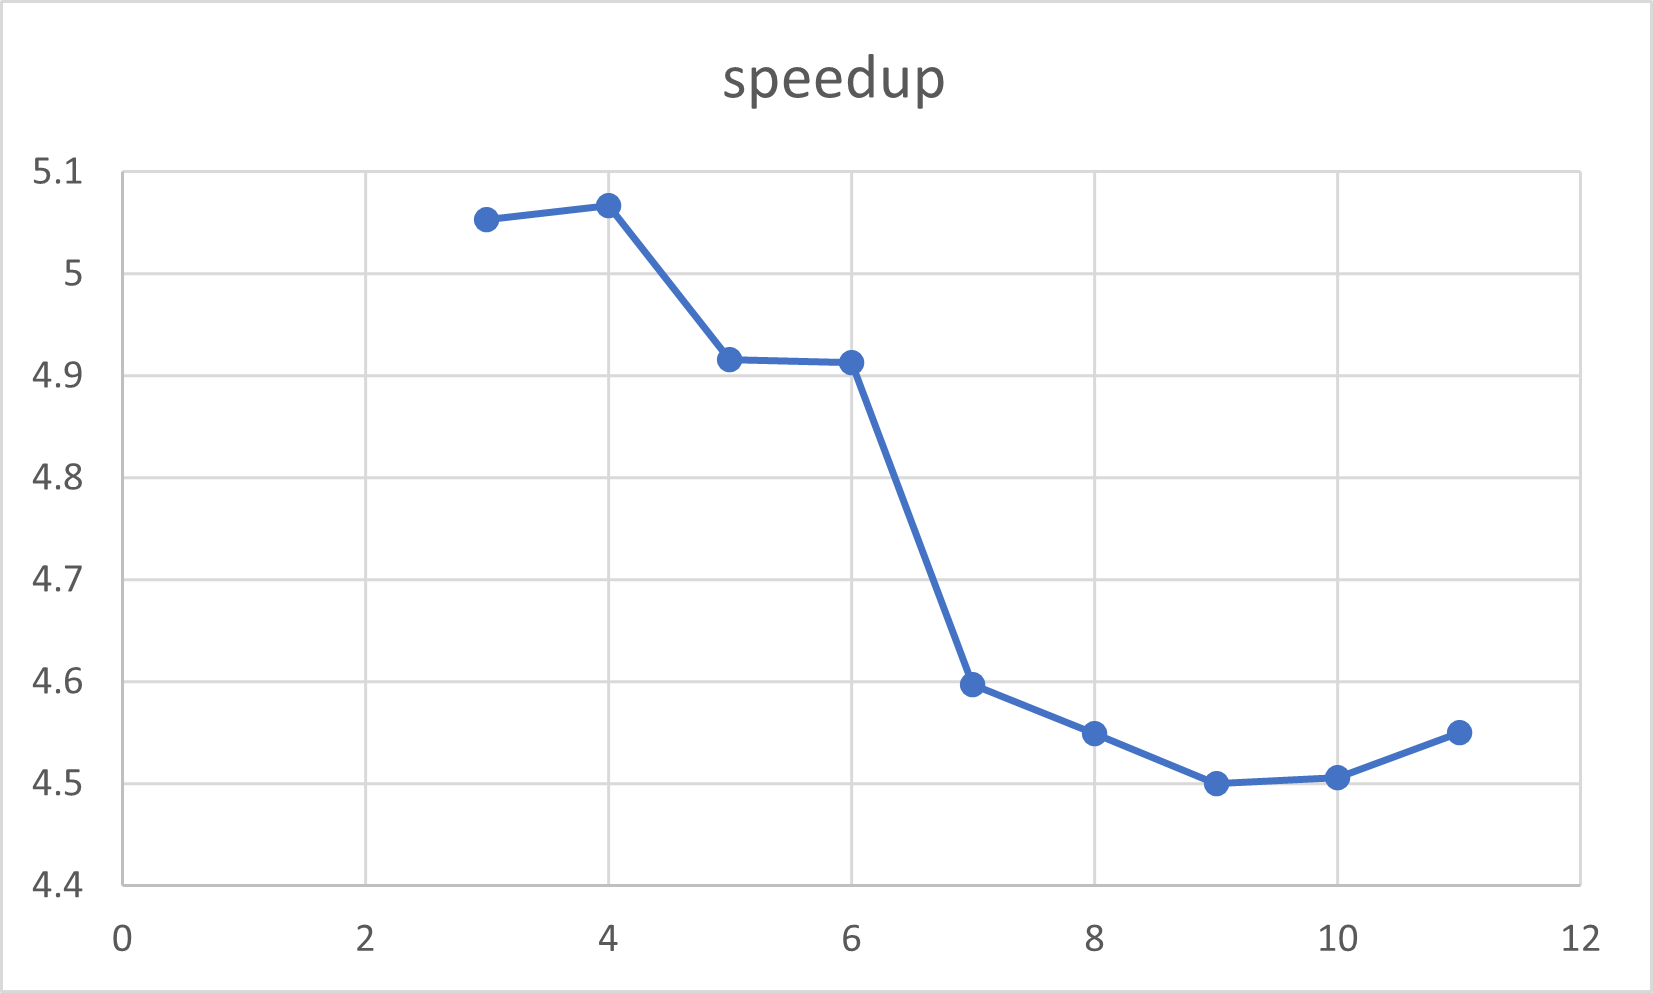
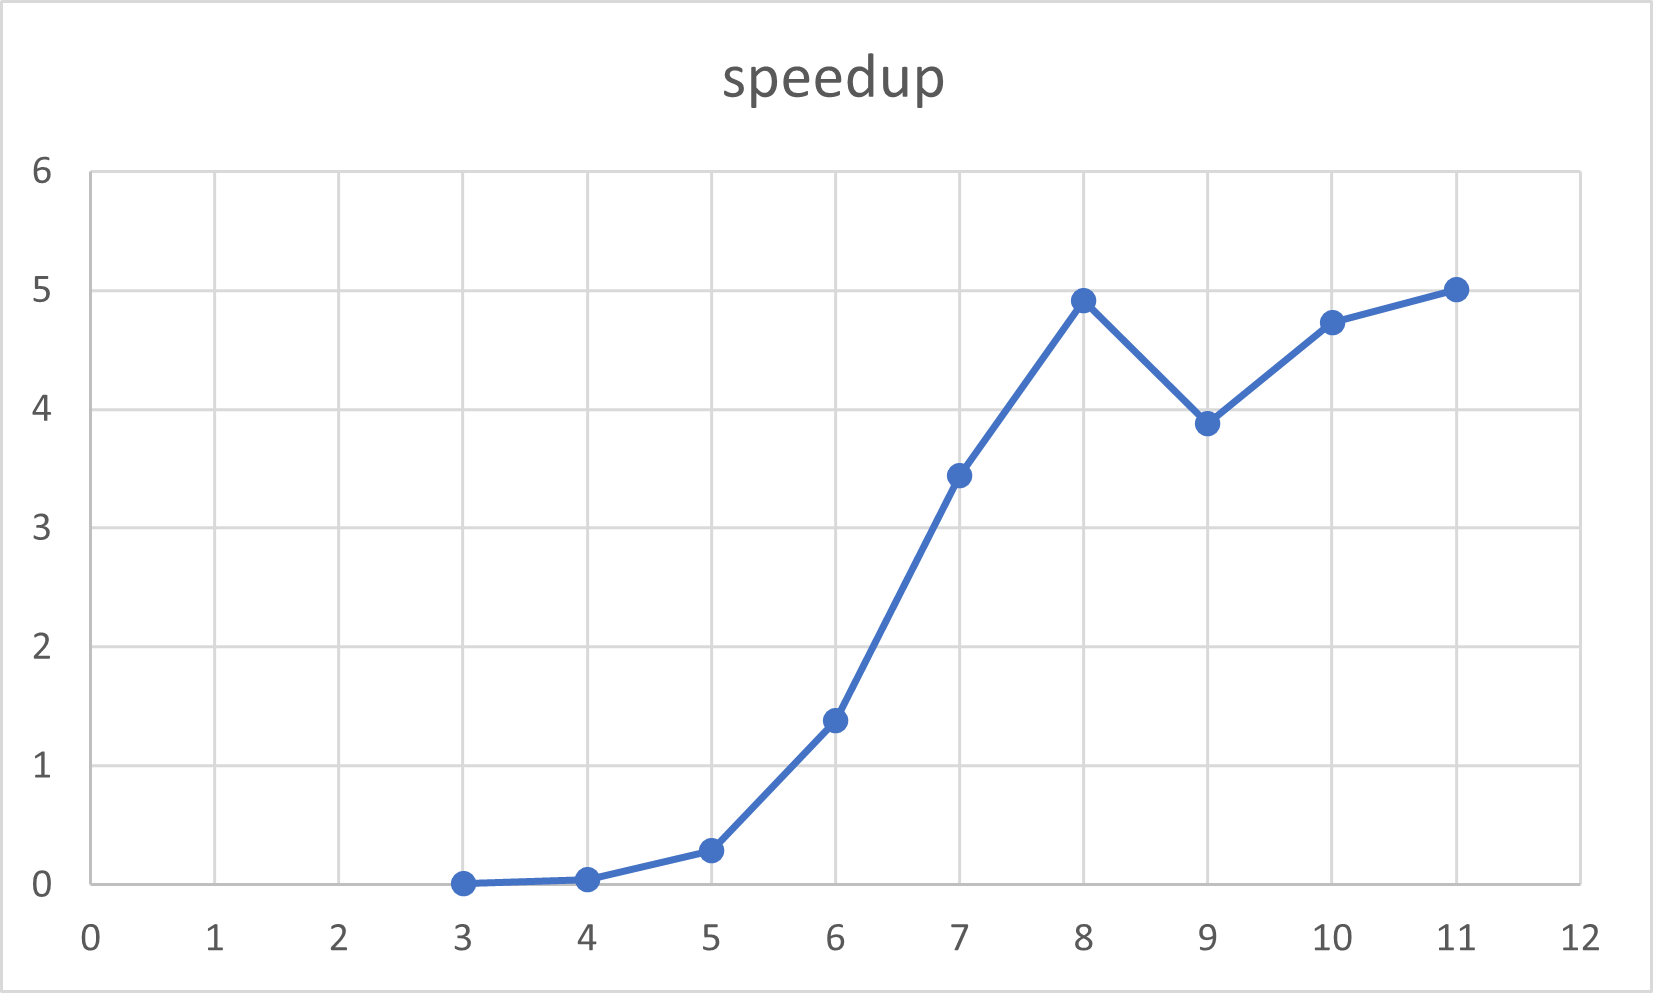
updated measurements and README

diff --git a/main.cpp b/main.cpp
@@ -136,8 +136,8 @@ double avgTimeMsParallel(int iterations, int dimension, const Matrix &matrix, in
 }
 
 int main() {
-    int dimensions = 12;
-    int thresholds[] = {3, 4, 5, 6, 7, 8, 9, 10, 11, 12};
+    int dimensions = 11;
+    int thresholds[] = {3, 4, 5, 6, 7, 8, 9, 10, 11};
 
     Matrix matrix;
 
@@ -147,17 +147,22 @@ int main() {
         }
     }
 
+//    speed serial
+//    auto s = avgTimeMsSerial(10, dimensions, matrix);
+//    speed parallel
+    auto sP = avgTimeMsParallel(10, dimensions, matrix, 0);
+
 //  comparing performance for [dimensions] dimensions with different thresholds
-    const int numberOfRunsPerDimension = 10;
-    std::ofstream csv;
-    csv.open ("performance.csv");
-    csv  << "threshold, execution time (ms), speedup" << std::endl;
-    auto speedSerial = avgTimeMsSerial(numberOfRunsPerDimension, dimensions, matrix);
-    for (auto threshold : thresholds) {
-        auto speedParallel = avgTimeMsParallel(numberOfRunsPerDimension, dimensions, matrix, threshold);
-        csv << threshold << "," << speedParallel << "," << speedSerial/speedParallel << std::endl;
-    }
-    csv.close();
+//    const int numberOfRunsPerDimension = 10;
+//    std::ofstream csv;
+//    csv.open ("performance.csv");
+//    csv  << "threshold, execution time (ms), speedup" << std::endl;
+//    auto speedSerial = avgTimeMsSerial(numberOfRunsPerDimension, dimensions, matrix);
+//    for (auto threshold : thresholds) {
+//        auto speedParallel = avgTimeMsParallel(numberOfRunsPerDimension, dimensions, matrix, threshold);
+//        csv << threshold << "," << speedParallel << "," << speedSerial/speedParallel << std::endl;
+//    }
+//    csv.close();
 
     return 0;
 }

diff --git a/README.md b/README.md
@@ -14,33 +14,39 @@ One alternative would have been to use the Gaussian elimination algorithm which 
 Intel i7-9750H @2.6GHz; 6 physical cores/12 logical cores
 
 ## Test Data
-We calculate the determinant for a **12-dimensional** matrix.
+We calculate the determinant for a **11-dimensional** matrix.
 
 ## Speed Sequential Solution
-Average Speed of 10 runs with the Test Data: **4905.72ms** or **4.91s**.
+Average Speed of 10 runs with the Test Data: **454.45ms**.
 
 ## Speed Naive Parallel Solution 
-Average Speed of 10 runs with the Test Data: **5101.58ms** or **5.1s**.
+Average Speed of 10 runs with the Test Data: **56450.4ms** or **56.45s**.  
+That is **124.22** times slower than the sequential solution.
 
 After implementing our parallel solution via OpenMP's Tasks and playing around with it a bit it quickly became clear that the naive parallel solution
-is slower than the sequential solution even. Creating a task for every Sub-Matrix
+is slower than the sequential solution (by a lot). Creating a task for every Sub-Matrix
 leads to **Over-Subscription** which in turn makes our solution slower(just like in ParallelSort).
 
 ## Thresholds
 To solve the problem of **Over-Subscription** we decided to set thresholds. In our case we want to start executing sequentially as soon as we hit a certain dimension of the matrix.
 As the termination condition of our recursion is reaching two dimensions (as we can calculate the determinant easily with **a * d - c * b**) the **smallest threshold** 
 that would make any difference is **3**.
-As we test with 12 dimensions the **largest threshold** making sense (to still compute anything in parallel) is **12**.
+As we test with 11 dimensions the **largest threshold** making sense (to still compute anything in parallel) is **11**.
 
 ## Speed with Thresholds
-We took the average of 10 executions for a 12-dimensional matrix for the thresholds from 3-12 and wrote the results to a csv. We also compared the speed for each threshold
-with the speed of the sequential solution (also average of 10 executions for 12-dimensional).
+We took the average of 10 executions for a 11-dimensional matrix for the thresholds from 3-11 and wrote the results to a csv. We also compared the speed for each threshold
+with the speed of the sequential solution (also average of 10 executions for 11-dimensional).
 This allowed us to create the following graph:
 
 ![executionTime](executionTimeParallelThresholds.png "executionTime")
 
-As we can see the fastest execution was reached by setting the threshold to 4.
+As the difference in execution time is so large we look at the graph for threshold 6-11 explicitly:
+
+![executionTime](executionTimeParallelThresholdsExact.png "executionTime")
+
+Now we see that the fastest execution time was reached with a threshold of 11. Which makes sense as it creates 10 Tasks for the Sub-Matrices which leads
+to the least Over-Subscription.
 
 ![executionTime](speedupParallelThresholds.png "speedup")
 
-Again we see that the speedup at threshold 4 is best after that it rapidly declines but seems to rise slightly at 11.
+Again we see that the speedup at threshold 11 is best..
